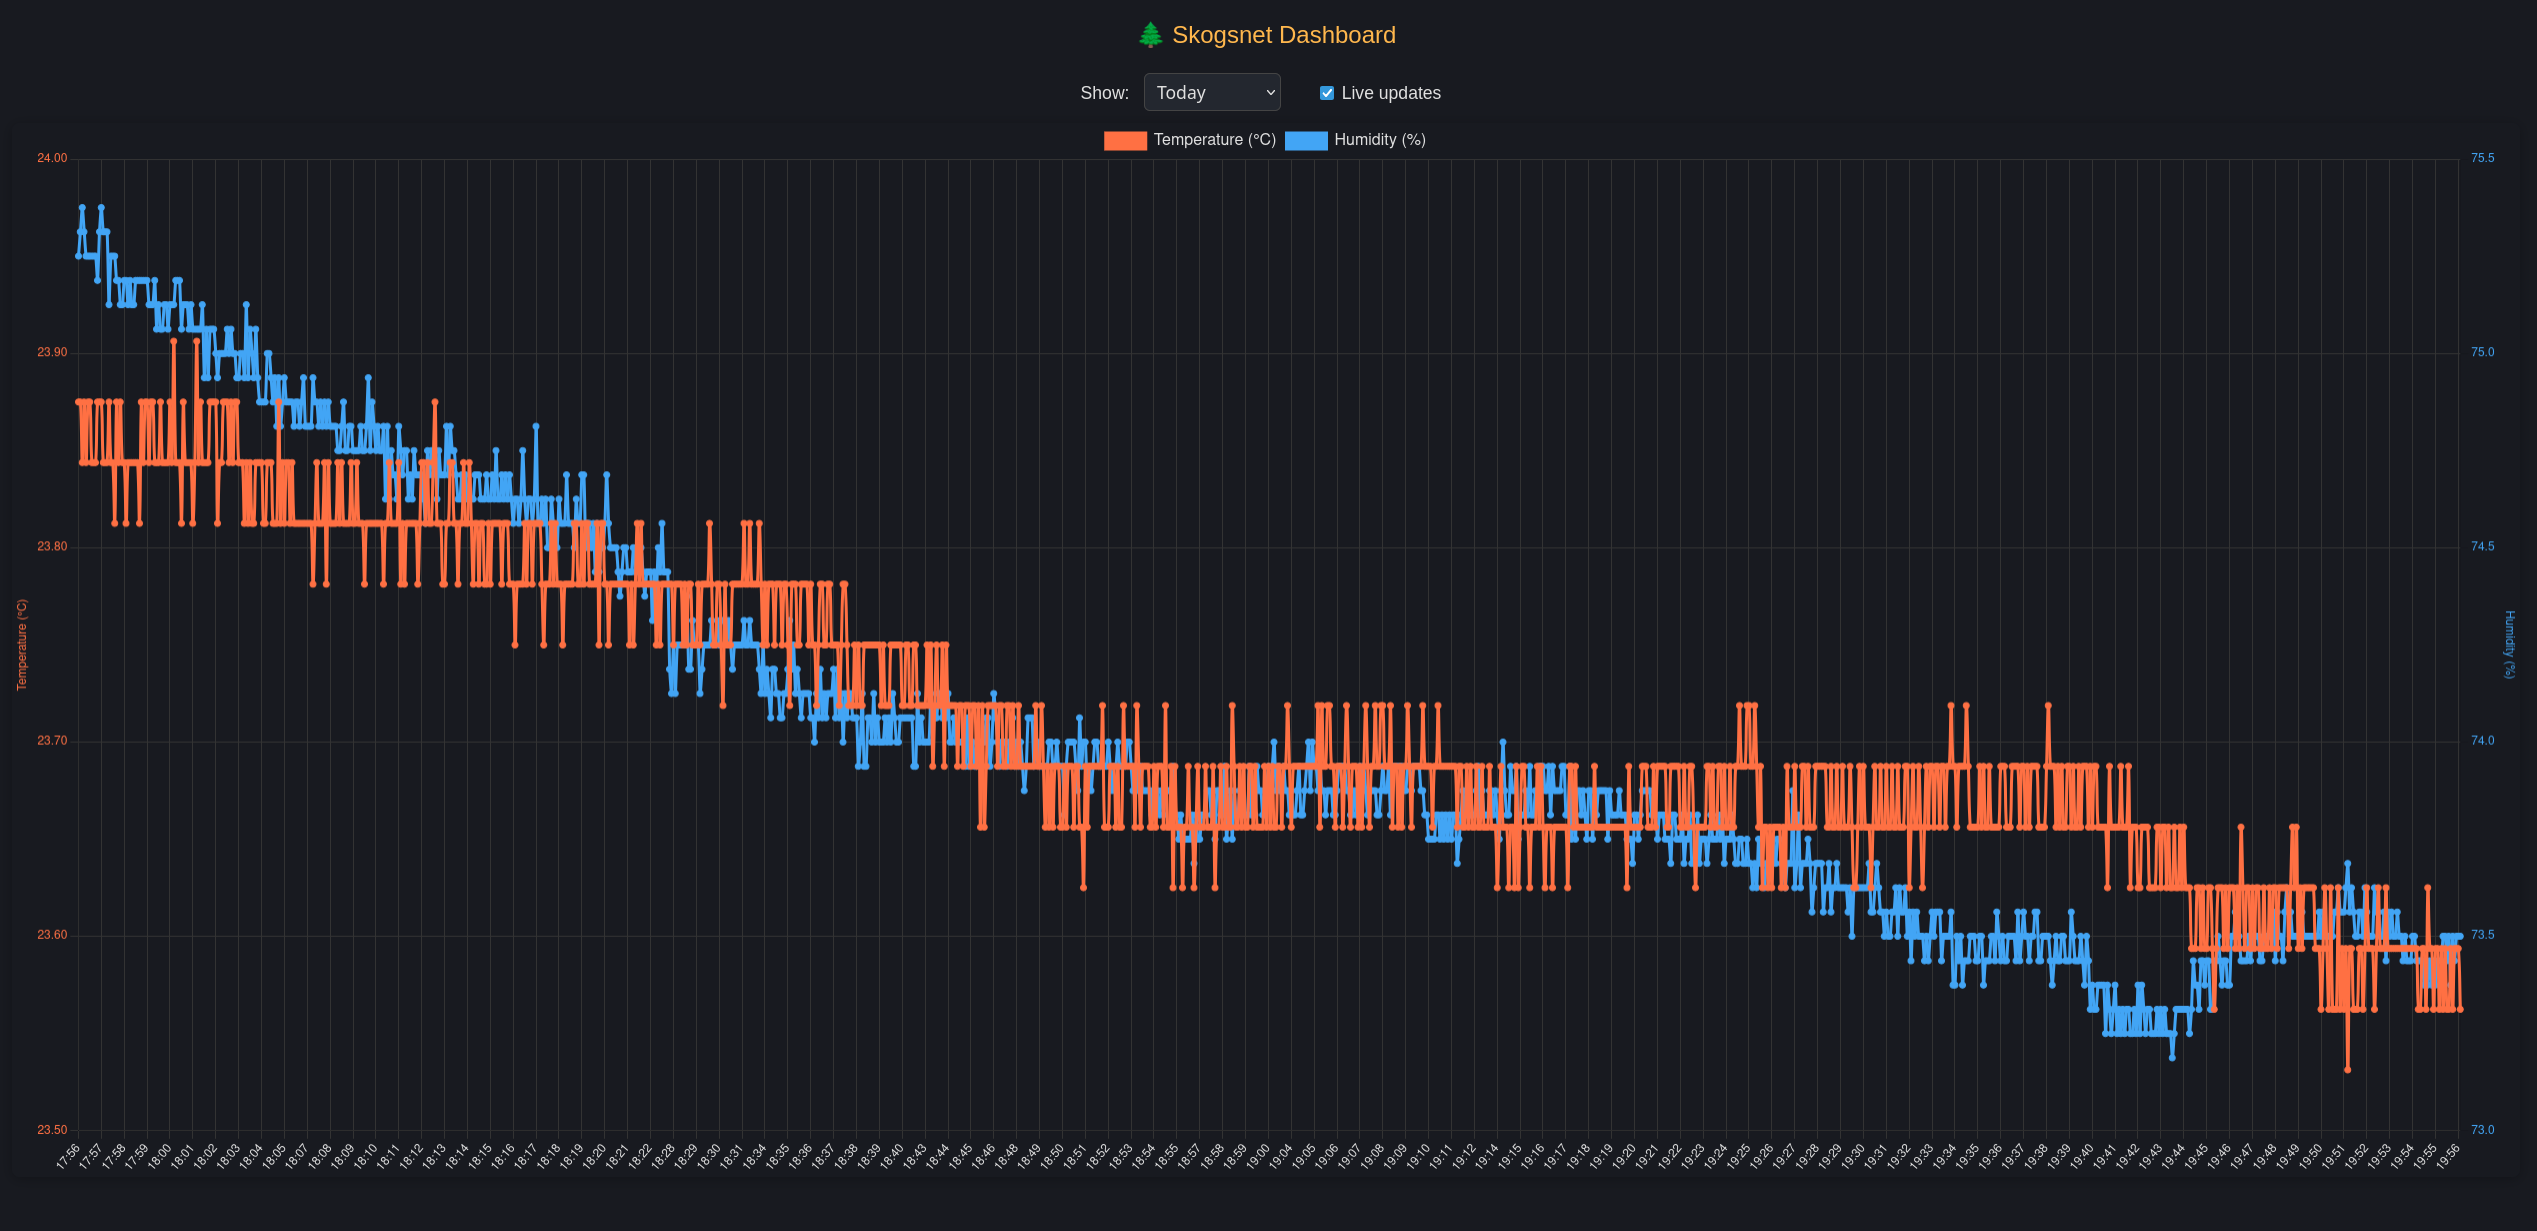
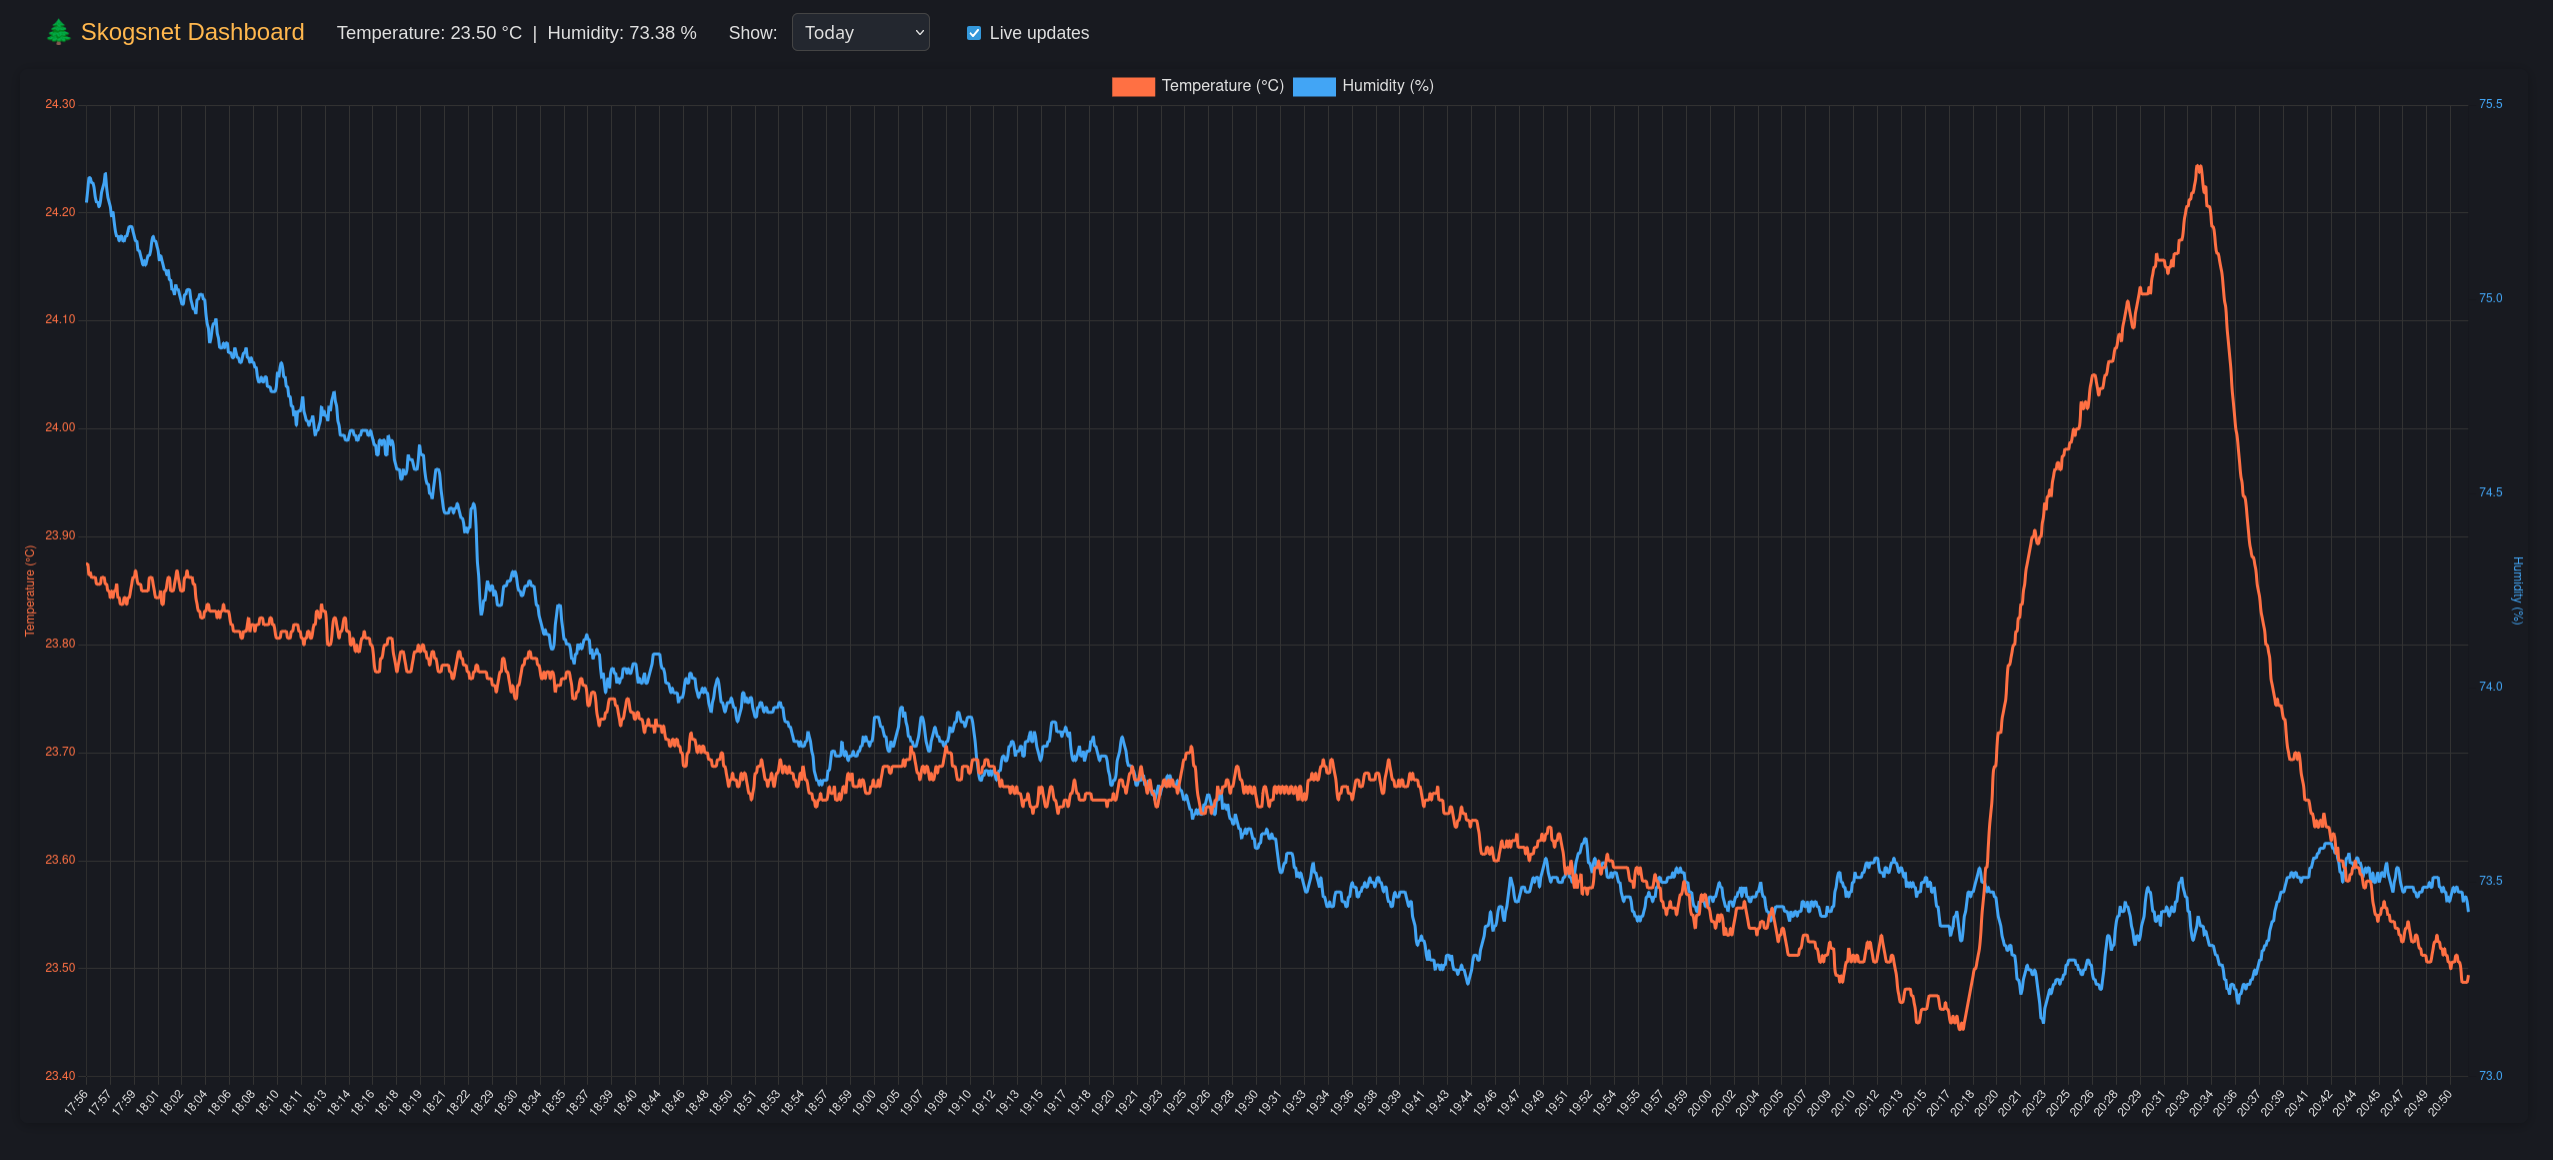
Added movingAverage to the web-dashboard charts to smooth out the data.

diff --git a/web-dashboard-static/dashboard.js b/web-dashboard-static/dashboard.js
@@ -12,12 +12,32 @@ document.addEventListener('DOMContentLoaded', function () {
         return d.toLocaleTimeString([], { hour: '2-digit', minute: '2-digit', hour12: false });
     }
 
+    function movingAverage(arr, windowSize) {
+        if (windowSize <= 1) return arr;
+        return arr.map((_, i, a) => {
+            const start = Math.max(0, i - windowSize + 1);
+            const window = a.slice(start, i + 1);
+            return window.reduce((sum, v) => sum + v, 0) / window.length;
+        });
+    }
+
     async function drawChart() {
         const range = document.getElementById('range').value;
         const data = await fetchData(range);
+
+        // Show current temp/humidity (latest data point)
+        if (data.length > 0) {
+            const latest = data[data.length - 1];
+            document.getElementById('current-temp').textContent = `Temperature: ${latest.TemperatureCelsius.toFixed(2)} °C`;
+            document.getElementById('current-hum').textContent = `Humidity: ${latest.HumidityPercentage.toFixed(2)} %`;
+        } else {
+            document.getElementById('current-temp').textContent = "Temperature: -- °C";
+            document.getElementById('current-hum').textContent = "Humidity: -- %";
+        }
+
         const labels = data.map(m => format24h(m.UnixTimestamp));
-        const temp = data.map(m => m.TemperatureCelsius);
-        const hum = data.map(m => m.HumidityPercentage);
+        const temp = movingAverage(data.map(m => m.TemperatureCelsius), 5);
+        const hum = movingAverage(data.map(m => m.HumidityPercentage), 5);
 
         const ctx = document.getElementById('chart').getContext('2d');
         const chartOptions = {
@@ -69,7 +89,8 @@ document.addEventListener('DOMContentLoaded', function () {
                             backgroundColor: '#ff7043',
                             fill: false,
                             tension: 0.4,
-                            yAxisID: 'y'
+                            yAxisID: 'y',
+                            pointRadius: 0
                         },
                         {
                             label: 'Humidity (%)',
@@ -78,7 +99,8 @@ document.addEventListener('DOMContentLoaded', function () {
                             backgroundColor: '#42a5f5',
                             fill: false,
                             tension: 0.2,
-                            yAxisID: 'y1'
+                            yAxisID: 'y1',
+                            pointRadius: 0
                         }
                     ]
                 },

diff --git a/web-dashboard-static/index.html b/web-dashboard-static/index.html
@@ -11,21 +11,27 @@
 
 <body>
     <div class="container">
-        <h2>🌲 Skogsnet Dashboard</h2>
-        <div class="controls">
-            <label for="range">Show:</label>
-            <select id="range">
-                <option value="">All</option>
-                <option value="1h">1h</option>
-                <option value="today">Today</option>
-                <option value="week">This week</option>
-                <option value="month">This month</option>
-                <option value="year">This year</option>
-            </select>
-            <label for="liveToggle" style="margin-left:20px;">
-                <input type="checkbox" id="liveToggle" checked>
-                Live updates
-            </label>
+        <div class="top-bar">
+            <h2>🌲 Skogsnet Dashboard</h2>
+            <div id="current-values">
+                <span id="current-temp">Temperature: -- °C</span> &nbsp;|&nbsp;
+                <span id="current-hum">Humidity: -- %</span>
+            </div>
+            <div class="controls">
+                <label for="range">Show:</label>
+                <select id="range">
+                    <option value="">All</option>
+                    <option value="1h">1h</option>
+                    <option value="today">Today</option>
+                    <option value="week">This week</option>
+                    <option value="month">This month</option>
+                    <option value="year">This year</option>
+                </select>
+                <label for="liveToggle" style="margin-left:20px;">
+                    <input type="checkbox" id="liveToggle" checked>
+                    Live updates
+                </label>
+            </div>
         </div>
         <canvas id="chart"></canvas>
     </div>

diff --git a/web-dashboard-static/dashboard.css b/web-dashboard-static/dashboard.css
@@ -25,14 +25,30 @@ body {
     padding: 0;
 }
 
+.top-bar {
+    display: flex;
+    align-items: center;
+    width: 100%;
+    flex-wrap: wrap;
+    margin-bottom: 18px;
+    margin-top: 16px;
+    margin-left: 100px;
+}
+
 h2 {
+    margin: 0;
     color: #ffb74d;
-    margin: 32px 0 0 0;
     font-weight: 400;
 }
 
+#current-values {
+    font-size: 1.15em;
+    margin-left: 32px;
+}
+
 .controls {
-    margin: 24px 0 12px 0;
+    margin: 0;
+    margin-left: 32px;
 }
 
 label,
